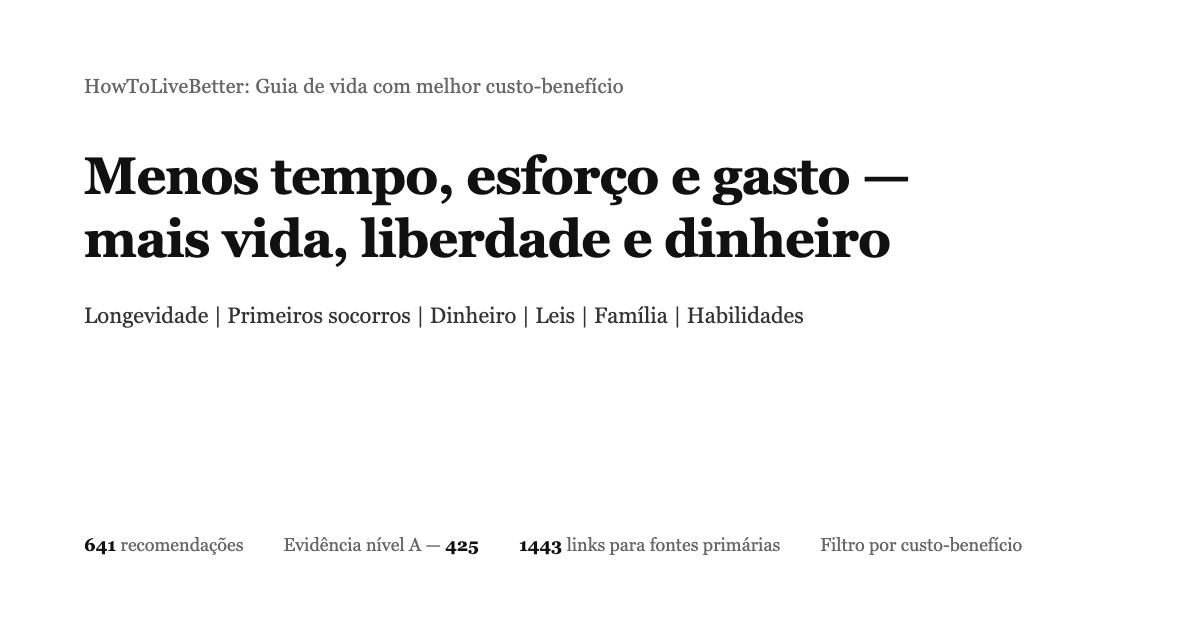
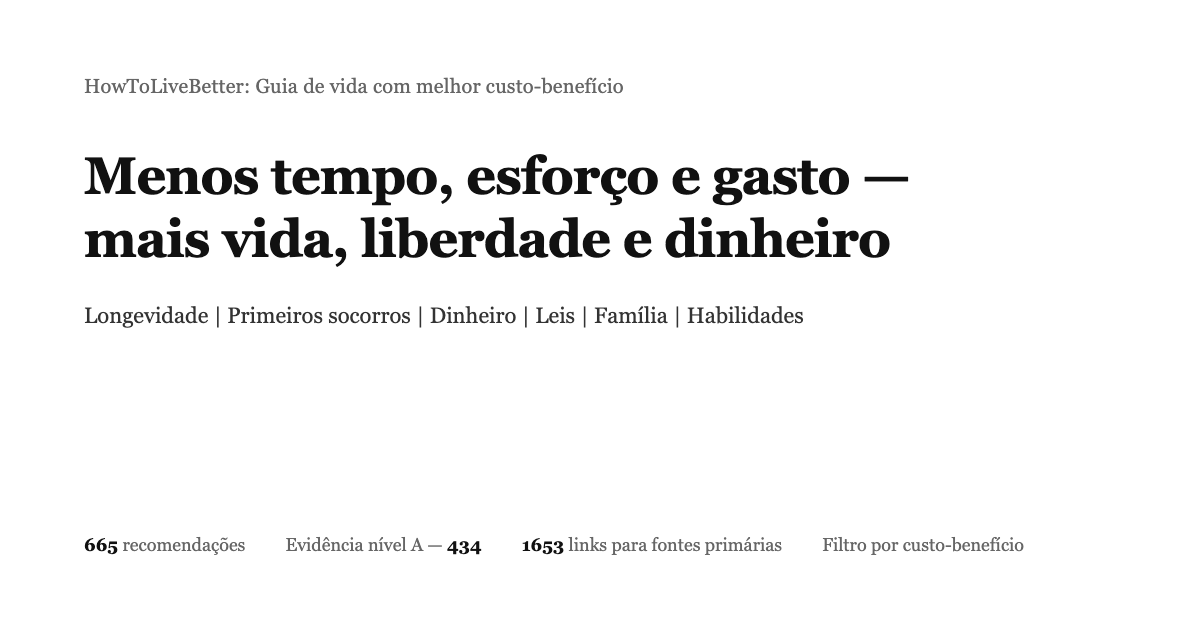
chore(og): refresh stats badges and OG images after a4e920f
Sync ar/id README badge numbers, regenerate OG HTML/PNGs (665/434/1653),
and trim .retranslate-pending to remaining ar/id lag.

Changed region(s): [[0.0617, 0.8444, 0.4008, 0.9048], [0.4317, 0.8444, 0.6475, 0.8746], [0.6783, 0.8444, 0.8633, 0.8746]]

diff --git a/forge/og/id.html b/forge/og/id.html
@@ -21,15 +21,15 @@ h1{margin-top:44px;font-size:52px;line-height:1.22;letter-spacing:-.015em;color:
 <div class="in">
     <div class="brand">HowToLiveBetter: Panduan Hidup yang Sepadan</div>
     <h1>
-        Lebih hemat waktu, tenaga, dan uang —
+        Lebih sedikit waktu, tenaga, dan biaya —
         <br>
-        lebih sehat, aman, dan bebas
+        lebih banyak hidup, kebebasan, dan uang
     </h1>
-    <p class="topics">Kesehatan | Pertolongan pertama | Uang | Hukum | Keluarga | Keterampilan</p>
+    <p class="topics">Umur panjang | Pertolongan pertama | Uang | Hukum | Keluarga | Keterampilan</p>
     <div class="stats">
-        <span><b>630</b> saran</span>
-        <span>Bukti tingkat A — <b>407</b></span>
-        <span><b>1302</b> tautan ke sumber utama</span>
-        <span>Cari menurut manfaat dan biaya</span>
+        <span><b>665</b> saran</span>
+        <span>bukti tingkat A — <b>434</b></span>
+        <span><b>1653</b> tautan sumber primer</span>
+        <span>Filter menurut nilai dibanding biaya</span>
     </div>
 </div>

diff --git a/forge/og/ru.html b/forge/og/ru.html
@@ -27,9 +27,9 @@ h1{margin-top:44px;font-size:52px;line-height:1.22;letter-spacing:-.015em;color:
     </h1>
     <p class="topics">Долголетие | Первая помощь | Деньги | Право | Семья | Навыки</p>
     <div class="stats">
-        <span><b>649</b> советов</span>
-        <span>Доказательства класса A — <b>428</b></span>
-        <span><b>1531</b> ссылок на первоисточники</span>
+        <span><b>665</b> советов</span>
+        <span>Доказательства класса A — <b>434</b></span>
+        <span><b>1653</b> ссылок на первоисточники</span>
         <span>Фильтр по выгодности</span>
     </div>
 </div>

diff --git a/forge/og/ar.html b/forge/og/ar.html
@@ -27,9 +27,9 @@ h1{margin-top:44px;font-size:52px;line-height:1.22;letter-spacing:-.015em;color:
     </h1>
     <p class="topics">طول العمر | الإسعافات الأولية | المال | القانون | الأسرة | المهارات</p>
     <div class="stats">
-        <span><b>630</b> نصيحة</span>
-        <span>أدلة من الدرجة A — <b>420</b></span>
-        <span><b>1341</b> رابطًا للمصادر الأولية</span>
+        <span><b>665</b> نصيحة</span>
+        <span>أدلة من الدرجة A — <b>434</b></span>
+        <span><b>1653</b> رابطًا للمصادر الأولية</span>
         <span>صفِّ حسب القيمة مقابل الجهد</span>
     </div>
 </div>

diff --git a/forge/og/pt.html b/forge/og/pt.html
@@ -27,9 +27,9 @@ h1{margin-top:44px;font-size:52px;line-height:1.22;letter-spacing:-.015em;color:
     </h1>
     <p class="topics">Longevidade | Primeiros socorros | Dinheiro | Leis | Família | Habilidades</p>
     <div class="stats">
-        <span><b>649</b> recomendações</span>
-        <span>Evidência nível A — <b>428</b></span>
-        <span><b>1531</b> links para fontes primárias</span>
+        <span><b>665</b> recomendações</span>
+        <span>Evidência nível A — <b>434</b></span>
+        <span><b>1653</b> links para fontes primárias</span>
         <span>Filtro por custo-benefício</span>
     </div>
 </div>

diff --git a/forge/og/es.html b/forge/og/es.html
@@ -27,9 +27,9 @@ h1{margin-top:44px;font-size:52px;line-height:1.22;letter-spacing:-.015em;color:
     </h1>
     <p class="topics">Longevidad | Primeros auxilios | Dinero | Leyes | Familia | Habilidades</p>
     <div class="stats">
-        <span><b>649</b> consejos</span>
-        <span>Evidencia de grado A — <b>428</b></span>
-        <span><b>1531</b> enlaces a fuentes primarias</span>
+        <span><b>665</b> consejos</span>
+        <span>Evidencia de grado A — <b>434</b></span>
+        <span><b>1653</b> enlaces a fuentes primarias</span>
         <span>Filtro por relación valor-precio</span>
     </div>
 </div>

diff --git a/forge/og/zh.html b/forge/og/zh.html
@@ -27,9 +27,9 @@ h1{margin-top:44px;font-size:52px;line-height:1.22;letter-spacing:-.015em;color:
     </h1>
     <p class="topics">长寿防病 | 急救 | 省钱理财 | 法律红线 | 失业兜底 | 家庭 | 技能</p>
     <div class="stats">
-        <span><b>649</b> 条建议</span>
-        <span>A 级证据 — <b>428</b> 条</span>
-        <span><b>1531</b> 条原始文献链接</span>
+        <span><b>665</b> 条建议</span>
+        <span>A 级证据 — <b>434</b> 条</span>
+        <span><b>1653</b> 条原始文献链接</span>
         <span>可按性价比筛选</span>
     </div>
 </div>

diff --git a/forge/og/en.html b/forge/og/en.html
@@ -27,9 +27,9 @@ h1{margin-top:44px;font-size:56px;line-height:1.22;letter-spacing:-.015em;color:
     </h1>
     <p class="topics">Longevity | First aid | Money | Law | Safety net | Family | Skills</p>
     <div class="stats">
-        <span><b>649</b> tips</span>
-        <span>Grade-A evidence — <b>428</b></span>
-        <span><b>1531</b> primary-source links</span>
+        <span><b>665</b> tips</span>
+        <span>Grade-A evidence — <b>434</b></span>
+        <span><b>1653</b> primary-source links</span>
         <span>Filter by value-for-effort</span>
     </div>
 </div>

diff --git a/forge/og/build_og_html.py b/forge/og/build_og_html.py
@@ -14,9 +14,9 @@ HERE = os.path.dirname(os.path.abspath(__file__))
 TEMPLATE = os.path.join(HERE, "_template.html")
 
 # Shared stats (keep in sync with site badges / README until a stats sync lands).
-TIPS_N = "649"
-GRADE_A_N = "428"
-LINKS_N = "1531"
+TIPS_N = "665"
+GRADE_A_N = "434"
+LINKS_N = "1653"
 
 LATIN_SERIF = 'Georgia,"Times New Roman","Noto Serif",serif'
 ARABIC_SERIF = '"Noto Sans Arabic",Georgia,"Times New Roman",serif'

diff --git a/README.ar.md b/README.ar.md
@@ -6,12 +6,12 @@
 
 يغطي طول العمر والوقاية من الأمراض، والحوادث والإسعافات الأولية، وتوفير المال وإدارته، والوقاية من الاحتيال والخطوط القانونية الحمراء، وشبكة أمان للبطالة، ومخاطر العمل الحر، وبناء منصة مع الالتزام بالقانون، والحب والزواج والأطفال، والسفر إلى الخارج، وتعلم المهارات.
 
-654 نصيحة، تذكر كل واحدة منها تكلفتها وما تعيده وما درجة صلابة الدليل. تستشهد المصادر بأوراق المجلات العلمية والوثائق الرسمية فقط.
+665 نصيحة، تذكر كل واحدة منها تكلفتها وما تعيده وما درجة صلابة الدليل. تستشهد المصادر بأوراق المجلات العلمية والوثائق الرسمية فقط.
 
 ![البحث عبر الإنترنت](https://img.shields.io/badge/Online%20search-Open%20here-3451b2?style=flat-square)
-![العناصر](https://img.shields.io/badge/Items-654-18794e?style=flat-square)
-![درجات الأدلة](https://img.shields.io/badge/Evidence%20grades-A%20429%20%C2%B7%20B%20174%20%C2%B7%20C%2051-915930?style=flat-square)
-![المصادر الأولية](https://img.shields.io/badge/Primary%20sources-1569%20links-565a5f?style=flat-square)
+![العناصر](https://img.shields.io/badge/Items-665-18794e?style=flat-square)
+![درجات الأدلة](https://img.shields.io/badge/Evidence%20grades-A%20434%20%C2%B7%20B%20176%20%C2%B7%20C%2055-915930?style=flat-square)
+![المصادر الأولية](https://img.shields.io/badge/Primary%20sources-1653%20links-565a5f?style=flat-square)
 ![الترخيص](https://img.shields.io/badge/License-Unlicense-565a5f?style=flat-square)
 
 **[افتح صفحة البحث عبر الإنترنت](https://dlgrv.github.io/HowToLiveBetter/ar/)** | [جدول المحتويات](#table-of-contents) | [المصطلحات](#reading-the-numbers-glossary) | [سجلات التحقق](docs/research/核实记录/) | [هل الزواج يستحق (قراءة مطولة)](docs/research/ar/Is-Marriage-Worth-It.md) | [عدة الطوارئ المنزلية (قراءة مطولة)](docs/research/ar/Home-Emergency-Kit.md) | [هل تتوقف لمساعدة غريب (قراءة مطولة)](docs/research/ar/Should-You-Stop-To-Help-A-Stranger.md) | [ما التراخيص التي تحتاجها المنصة (قراءة مطولة)](docs/research/ar/What-Licenses-A-Platform-Needs.md)
@@ -76,7 +76,7 @@
 - **للتصفية حسب الشروط**: افتح [صفحة البحث عبر الإنترنت](https://dlgrv.github.io/HowToLiveBetter/ar/)؛ يمكنك التصفية بالكلمة المفتاحية والفصل ودرجة الدليل، والجمع بين ثلاثة أبعاد للتكلفة: هل يكلف مالا، وهل يستغرق وقتا، وهل يتطلب إرادة. تقرأ البيانات من نصوص book/ مباشرة؛ صحح النص فتتغير صفحة البحث معه.
 - **للقراءة بالترتيب**: العناصر داخل كل قسم مرتبة من الأعلى إلى الأدنى قيمة مقابل المال؛ ابدأ بالعناصر الأولى من كل قسم.
 - **إذا كانت سلسلة الأرقام صعبة القراءة**: لكل عنصر سطر بعبارة مبسطة يترجم نسب الخطر وفترات الثقة في حقل المنفعة إلى عبارات يومية مثل انخفاض احتمال الوفاة في المدة نفسها بنحو 20% أو احتجاز بضعة أيام وغرامة بمقدار كذا، مستخدما فقط الوقائع الموجودة في الأصل دون إضافة أرقام جديدة. يكفي هذا السطر وحده لاتخاذ القرار؛ ويحتفظ حقل المنفعة بكل الأرقام الخام وفترات الثقة لتتحقق بنفسك.
-- **للأصعب من الاستنتاجات فقط**: حدد في صفحة البحث درجة الدليل A لتحتفظ فقط بالعناصر الـ429 التي تحمل أرقاما ملموسة من تحليلات تلوية أو تجارب كبيرة.
+- **للأصعب من الاستنتاجات فقط**: حدد في صفحة البحث درجة الدليل A لتحتفظ فقط بالعناصر الـ434 التي تحمل أرقاما ملموسة من تحليلات تلوية أو تجارب كبيرة.
 - **للأجدر فقط**: حدد قيمة مقابل المال عالية جدا لتحصل على العناصر الـ111 التي لا تكلف مالا ولا وقتا ولا إرادة، ومنفعتها في المستوى الأكبر. أضف عليها مرشح ما تعيده لتحصل على قائمة الأولويات تحت ذلك المقياس.
 - **لا يزعجك أن تبدأ عناوين الأقسام بكلمة لا**: عنوان القسم يسمي النتيجة التي يحاول القسم منعها (لا تمت مبكرا، لا تهدر الوقت)، وليس حظرا شاملا لكل عنصر تحته. عناوين العناصر هي الأفعال الفعلية، وتبدأ دائما بفعل، ويحمل كل منها افعل هذا أو لا تفعل هذا، وكلا النوعين يعيش في القسم نفسه. فمثلا يحوي القسم 4 كلا من حول سأفعل ذلك إلى في ساعة كذا وفي مكان كذا عندما يحدث X افعل ذلك وتخط التلفاز والأخبار المتداولة. اقرأ حسب عنوان العنصر لا حسب نبرة عنوان القسم.
 
@@ -119,7 +119,7 @@
 | B     | مدعوم ببحوث لكن يصعب قياسه، أو أدلة من عينات صغيرة / دراسة واحدة |
 | C     | خبرة المؤلف أو إجماع عام، دون أدبيات مباشرة |
 
-من عناصر الكتاب الـ654، هناك 429 بدرجة A و174 بدرجة B و50 بدرجة C؛ و65 عنصرا موسوما بأنه محل خلاف و3 مواضع موسومة TODO بانتظار التحقق. العناصر A/B محل الخلاف موسومة بكلمة محل خلاف مع ذكر الدليل المعارض. تستشهد كل المصادر بالأدبيات الأولية فقط (أوراق المجلات التي تحمل DOI أو رابط PubMed، أو تقارير الجهات الرسمية مثل WHO وCDC ومكتب الإحصاءات الوطني)، ولا تستشهد أبدا بروايات منقولة. الأرقام غير المؤكدة موسومة بعبارة بانتظار التحقق.
+من عناصر الكتاب الـ665، هناك 434 بدرجة A و176 بدرجة B و55 بدرجة C؛ و67 عنصرا موسوما بأنه محل خلاف و3 مواضع موسومة TODO بانتظار التحقق. العناصر A/B محل الخلاف موسومة بكلمة محل خلاف مع ذكر الدليل المعارض. تستشهد كل المصادر بالأدبيات الأولية فقط (أوراق المجلات التي تحمل DOI أو رابط PubMed، أو تقارير الجهات الرسمية مثل WHO وCDC ومكتب الإحصاءات الوطني)، ولا تستشهد أبدا بروايات منقولة. الأرقام غير المؤكدة موسومة بعبارة بانتظار التحقق.
 
 ## مستويات القيمة مقابل المال
 
@@ -131,7 +131,7 @@
 | مقدار المنفعة | كبيرة / متوسطة / صغيرة | يطبق آليا من عتبات حقل المنفعة في العنصر نفسه حيث أمكن: للعمر الانخفاض النسبي (20% فأكثر كبيرة، و10-20% متوسطة، وأقل من 10% أو نقاط بديلة فقط صغيرة)؛ للمال المبلغ (عشرات الآلاف كبيرة، ومئات إلى آلاف متوسطة، وعشرات اليوانات صغيرة)؛ للحرية الشخصية التبعة (تجنب المسؤولية الجنائية كبيرة، وتجنب الاحتجاز أو العقوبة الإدارية متوسطة، وتجنب نزاع مدني صغيرة)؛ للوقت والطاقة التوفير (ساعات يوميا كبيرة، وساعات أسبوعيا متوسطة، ومرة واحدة صغيرة) |
 | القيمة مقابل المال | عالية جدا / عالية / عادية | منفعة كبيرة مع تكاليف ثلاثة صفرية يساوي عالية جدا؛ ومنفعة كبيرة بتكاليف منخفضة أو منفعة متوسطة بتكاليف صفرية يساوي عالية؛ والباقي يساوي عادية |
 
-من عناصر الكتاب الـ654، هناك 111 (17%) عالية جدا و298 (46%) عالية و245 (37%) عادية. الطبقة الوسطى سميكة عن قصد: مقدار المنفعة الأصلي له ثلاثة مستويات فقط، والتقطيع الأدق يكون دقة زائفة.
+من عناصر الكتاب الـ665، هناك 113 (17%) عالية جدا و302 (45%) عالية و250 (38%) عادية. الطبقة الوسطى سميكة عن قصد: مقدار المنفعة الأصلي له ثلاثة مستويات فقط، والتقطيع الأدق يكون دقة زائفة.
 
 **هذا المستوى حكم المؤلف لا الدليل**، وهو أساسا درجة C، ومستقل عن درجة الدليل. قد يكون العنصر درجة A لكن قيمته عادية (لقاح الحزام الناري له تجربة من المرحلة الثالثة بفعالية 97.2%، لكن الجرعتين تكلفان ثلاثة إلى أربعة آلاف يوان والحزام الناري نادرا ما يكون مميتا)، وقد يكون درجة C لكن قيمته عالية جدا (إرسال خط سيرك لأهلك قبل السفر إلى الخارج). وعادية لا تعني لا يجب فعله، فكل عنصر في الكتاب نصيحة جديرة بالأخذ؛ وتعني فقط أن تزن تلك النفقة بنفسك.
 

diff --git a/README.id.md b/README.id.md
@@ -2,7 +2,7 @@
 
 # Panduan Hidup yang Sepadan
 
-**630 saran dalam 34 bab.** Edisi ini memuat 407 butir tingkat A, 169 tingkat B, dan 54 tingkat C, dengan 1302 tautan pada kolom Sumber. Buku ini membahas kesehatan, keadaan darurat, uang, waktu, kerja, keluarga, dan keputusan besar. Tiap saran menjelaskan biaya, manfaat, kekuatan bukti, dan sumbernya. Naskah dasarnya (fork EN/CN) mencatat 654 saran, 429 tingkat A, dan 1569 tautan; angka edisi Indonesia berubah karena Bab 7 menggunakan program Indonesia.
+**630 saran dalam 34 bab.** Edisi ini memuat 407 butir tingkat A, 169 tingkat B, dan 54 tingkat C, dengan 1302 tautan pada kolom Sumber. Buku ini membahas kesehatan, keadaan darurat, uang, waktu, kerja, keluarga, dan keputusan besar. Tiap saran menjelaskan biaya, manfaat, kekuatan bukti, dan sumbernya. Naskah dasarnya (fork EN/CN) mencatat 665 saran, 434 tingkat A, dan 1653 tautan; angka edisi Indonesia berubah karena Bab 7 menggunakan program Indonesia.
 
 Kamu tidak harus melakukan semuanya. Pilih satu atau dua hal yang paling berguna untuk keadaanmu, lalu kembali lagi saat membutuhkan.
 
